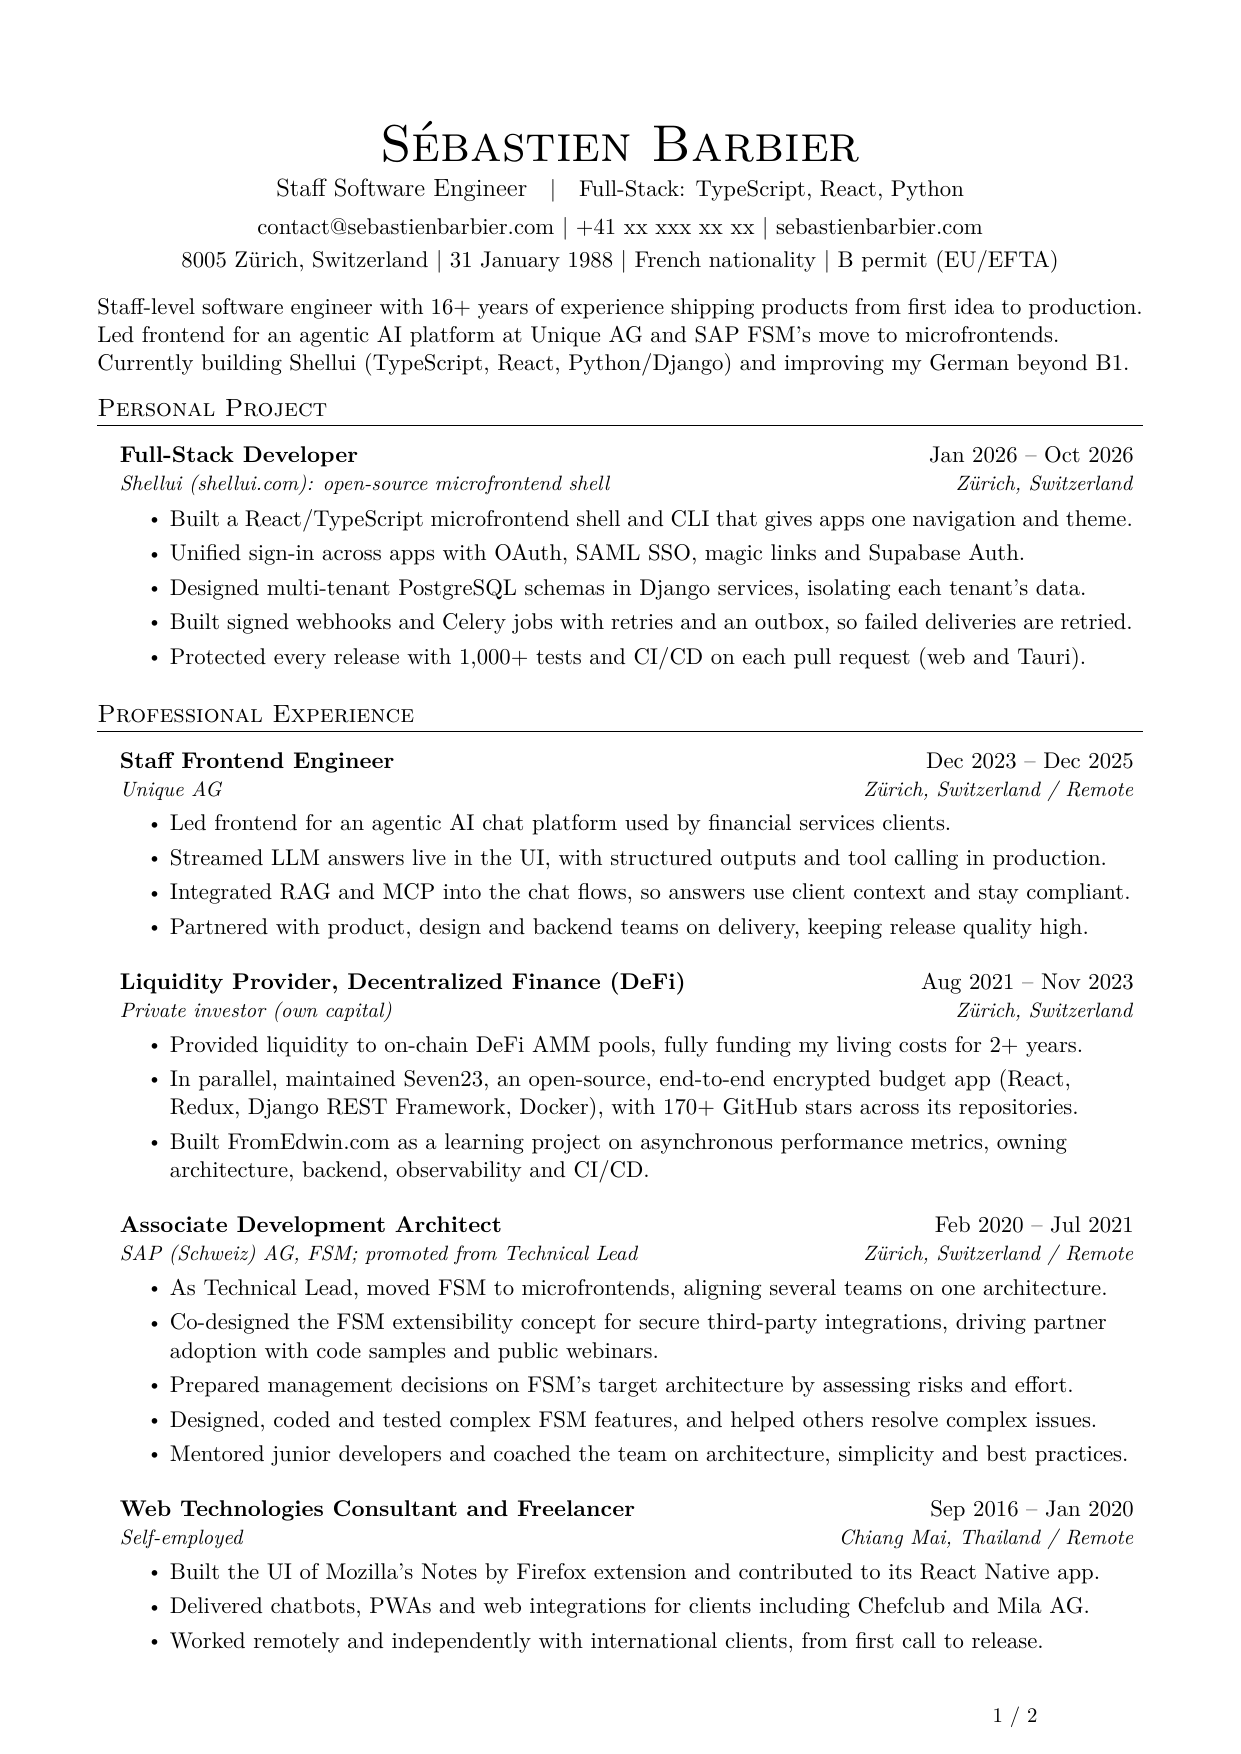
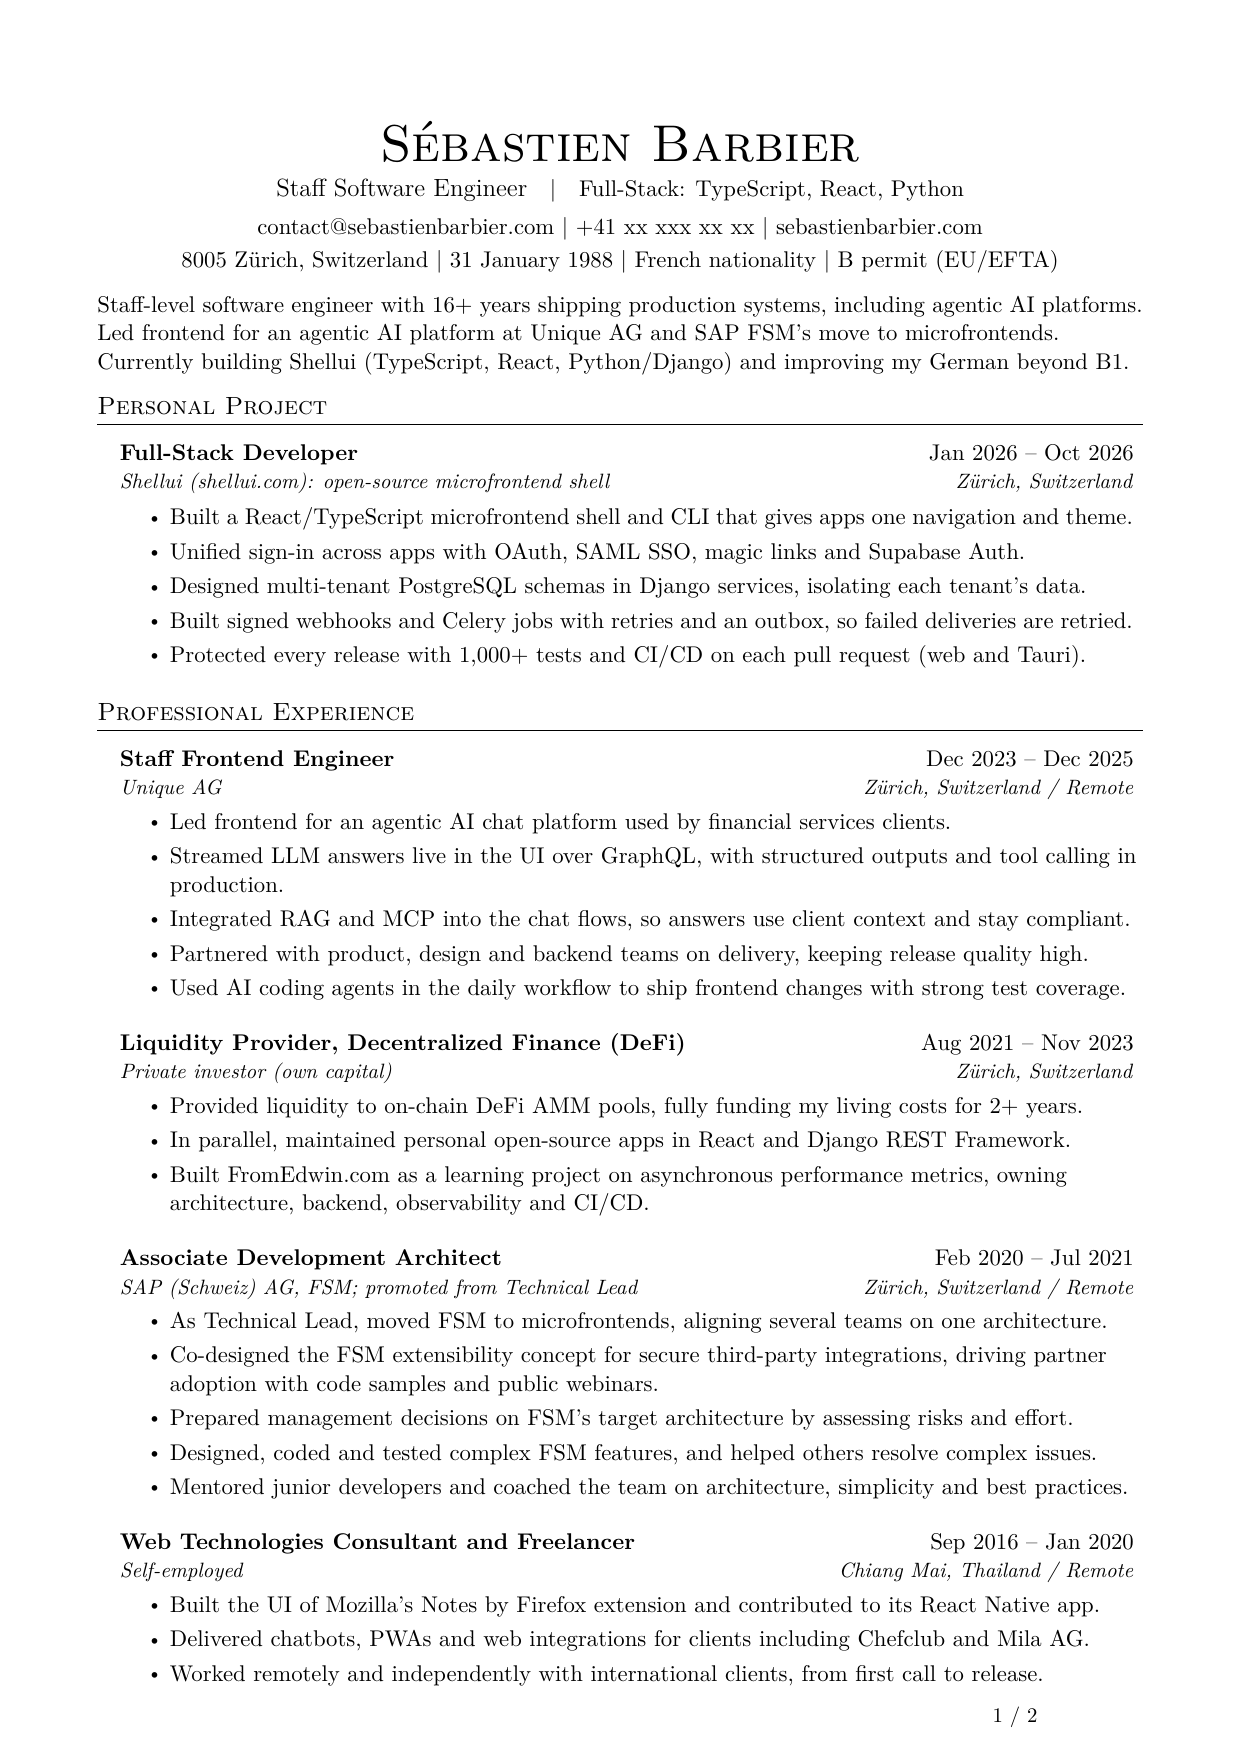
docs(AGENTS): AI-first skills guideline; align public resume
Add AI positioning rules for agents (skills order, prominence in
summary and cover letters, evidence-only claims). Put AI first in
Technical Skills with Autonomous systems after Agentic AI, matching
sebastienbarbier.com. Remove Seven23 from the public resume, clarify
Seven23 stays off root resume.tex, and rebalance content for two-page
fill. Regenerate resume PDF and README preview PNGs.

Changed region(s): [[0.0919, 0.1539, 0.9186, 0.9544], [0.8268, 0.3694, 0.8574, 0.4002]]

diff --git a/resume.tex b/resume.tex
@@ -144,7 +144,7 @@
 8005 Zürich, Switzerland $|$ 31 January 1988 $|$ French nationality $|$ B permit (EU/EFTA)
 \end{center}
 \vspace{-3pt}
-Staff-level software engineer with 16+ years of experience shipping products from first idea to production.\\
+Staff-level software engineer with 16+ years shipping production systems, including agentic AI platforms.\\
 Led frontend for an agentic AI platform at Unique AG and SAP FSM's move to microfrontends.\\
 Currently building Shellui (TypeScript, React, Python/Django) and improving my German beyond B1.
 
@@ -166,11 +166,12 @@ Currently building Shellui (TypeScript, React, Python/Django) and improving my G
 \resumeItem{Streamed LLM answers live in the UI over GraphQL, with structured outputs and tool calling in production.}
 \resumeItem{Integrated RAG and MCP into the chat flows, so answers use client context and stay compliant.}
 \resumeItem{Partnered with product, design and backend teams on delivery, keeping release quality high.}
+\resumeItem{Used AI coding agents in the daily workflow to ship frontend changes with strong test coverage.}
 \resumeItemListEnd
 \resumeSubheading{Liquidity Provider, Decentralized Finance (DeFi)}{Aug 2021 -- Nov 2023}{Private investor (own capital)}{Zürich, Switzerland}
 \resumeItemListStart
 \resumeItem{Provided liquidity to on-chain DeFi AMM pools, fully funding my living costs for 2+ years.}
-\resumeItem{In parallel, maintained Seven23, an open-source, end-to-end encrypted budget app (React, Redux, Django REST Framework, Docker), with 170+ GitHub stars across its repositories.}
+\resumeItem{In parallel, maintained personal open-source apps in React and Django REST Framework.}
 \resumeItem{Built FromEdwin.com as a learning project on asynchronous performance metrics, owning architecture, backend, observability and CI/CD.}
 \resumeItemListEnd
 \resumeSubheading{Associate Development Architect}{Feb 2020 -- Jul 2021}{SAP (Schweiz) AG, FSM; promoted from Technical Lead}{Zürich, Switzerland / Remote}
@@ -205,29 +206,25 @@ Currently building Shellui (TypeScript, React, Python/Django) and improving my G
 \resumeItemListEnd
 \resumeSubheading{Co-founder and Full-stack Developer}{Jul 2009 -- Jun 2012}{Ionyse}{Besançon, France}
 \resumeItemListStart
-\resumeItem{Co-founded a web agency during my master's, building client websites on a Python/Django CMS.}
+\resumeItem{Co-founded a web agency during my master's, building and hosting client websites on a Python/Django CMS.}
 \resumeItemListEnd
 \resumeSubHeadingListEnd
 
 \section{Technical Skills}
 \begingroup
 \setlength{\parindent}{0pt}\setlength{\parskip}{4pt}\fontsize{10.5}{13}\selectfont
+\textbf{AI}\\
+Agentic AI, Autonomous systems, LLMs, streaming responses, structured outputs, tool calling, RAG and MCP.\\
+AI-assisted engineering with AI coding agents as part of the daily workflow.
 \textbf{Frontend}\\
 TypeScript, JavaScript, React, Next.js, Angular, Tailwind CSS, PWA, accessibility, UX/UI.\\
 Microfrontends, Redux, MUI, D3, streaming chat interfaces, React Native.
-
 \textbf{Backend \& Architecture}\\
 Python, Django REST Framework, Java, REST APIs, GraphQL, OpenAPI, SSO, Celery, PostgreSQL, Supabase.\\
 Multi-tenant SaaS, microfrontends, event-driven services, signed webhooks, retries, Redis.
-
 \textbf{Delivery \& Ops}\\
 CI/CD, GitHub Actions, Docker, Cypress, unit and E2E testing, Sentry, Prometheus, Grafana.\\
 Git, Linux server administration, Tauri desktop builds.
-
-\textbf{AI}\\
-Agentic AI, LLMs, streaming responses, structured outputs, tool calling, RAG and MCP.\\
-AI-assisted engineering with AI coding agents as part of the daily workflow.
-
 \textbf{Domains}\\
 Financial services, healthcare (HL7, DICOM, ISO 13485), enterprise SaaS, open source.\\
 Field service management (SAP), telemedicine (Covalia), decentralized finance (DeFi).
@@ -236,7 +233,7 @@ Field service management (SAP), telemedicine (Covalia), decentralized finance (D
 \section{Soft Skills}
 \begingroup
 \setlength{\parindent}{0pt}\setlength{\parskip}{4pt}\fontsize{10.5}{13}\selectfont
-\textbf{Ownership:} built Shellui and Seven23 end to end, from architecture and UI to CI/CD and hosting.
+\textbf{Ownership:} built Shellui end to end, from architecture and UI to CI/CD and hosting.
 
 \textbf{Collaboration:} aligned several SAP teams on microfrontends; partnered with product and design at Unique.
 
@@ -245,6 +242,8 @@ Field service management (SAP), telemedicine (Covalia), decentralized finance (D
 \textbf{Communication:} presented the FSM extensibility concept to SAP partners in public webinars.
 
 \textbf{Pragmatism \& quality:} simple, well-tested solutions shipped in small steps, backed by 1,000+ tests.
+
+\textbf{AI delivery:} shipped agentic AI chat at Unique with streaming LLMs, RAG, and MCP for compliant financial-services clients.
 \par\endgroup
 
 \section{Education}

diff --git a/AGENTS.md b/AGENTS.md
@@ -25,7 +25,7 @@ Product name: always write `Shellui` (never ShellUI). Shellui is a **personal pr
 
 From Aug 2021 to Nov 2023, Sébastien was a **liquidity provider in crypto**, investing his own capital. Show it as "Liquidity Provider, Decentralized Finance (DeFi)" with the organisation line "Private investor (own capital)", never "Self-employed" (it was private asset management, not a registered business). Activity: on-chain DeFi AMM pools, which fully funded his living costs for over two years (no protocol names, no custom tooling claimed). In parallel, Sébastien worked on personal projects, which may be mentioned:
 
-- **Seven23** (seven23.io, since 2011): open-source, end-to-end encrypted, fully manual budget app. Web app in React, Redux, MUI, D3 and Workbox (offline-first, runs without an account); backend on Django and Django REST Framework with Swagger/Redoc API docs, Docker images and GitHub Actions CI. 112 + 59 GitHub stars (170+ across both repositories).
+- **Seven23** (seven23.io, since 2011): open-source, end-to-end encrypted, fully manual budget app. Web app in React, Redux, MUI, D3 and Workbox (offline-first, runs without an account); backend on Django and Django REST Framework with Swagger/Redoc API docs, Docker images and GitHub Actions CI. 112 + 59 GitHub stars (170+ across both repositories). **Never list Seven23 on the root public `resume.tex`** (it remains on sebastienbarbier.com). Mention it in an application copy only if Sébastien asks.
 - **FromEdwin.com**: learning project on asynchronous performance metrics; stopped and no longer online. Do not describe it as a live product.
 
 SAP: employer legal name is **SAP (Schweiz) AG**, department Field Service Management (FSM) Self-Service & Platform Extensibility, Feb 2020 to Jul 2021, last title Associate Development Architect (earlier Technical Lead). Details come from `references/`.
@@ -61,6 +61,20 @@ SAP: employer legal name is **SAP (Schweiz) AG**, department Field Service Manag
 - At most five bullets per role, fewer for older roles.
 - Bold only job-relevant keywords, sparingly (a few per section).
 - Older roles (before 2014) go in "Earlier Experience" with one bullet each.
+
+## AI positioning
+
+Keep the public resume and tailored copies aligned with [sebastienbarbier.com](https://sebastienbarbier.com): **AI is the first group** in the Technical Skills section. Within that group, order terms as on the site: **Agentic AI**, then **Autonomous systems**, then LLMs, streaming responses, structured outputs, tool calling, RAG, MCP, and AI-assisted engineering (coding agents in the daily workflow).
+
+When tailoring or rewriting the About me summary, experience bullets, and cover letters (Interest and Desire in AIDA), **surface AI work prominently** where real facts support it, for example:
+
+- Agentic AI and autonomous systems (wording must match what Sébastien actually shipped)
+- LLM integrations, RAG, MCP, streaming chat UIs, and tool calling at **Unique AG**
+- AI skills and tooling used in delivery (only tools and practices backed by `references/`, root `resume.tex`, or the site)
+
+Do not invent AI scope, models, metrics, or employers. If a job ad or narrative needs AI evidence that is not in those sources, **ask Sébastien one specific question** before adding the claim. The root `resume.tex` stays broadly representative; application copies may reorder bullets or strengthen AI in the summary when the ad warrants it.
+
+If putting **AI** first makes the CV overflow to three pages, keep the group order but tighten the Technical Skills block (no extra blank lines between skill groups) and rebalance bullets before removing honest content. Always re-run `scripts/check-page-fill.sh` after layout changes.
 
 ## Tailoring for a job offer
 
